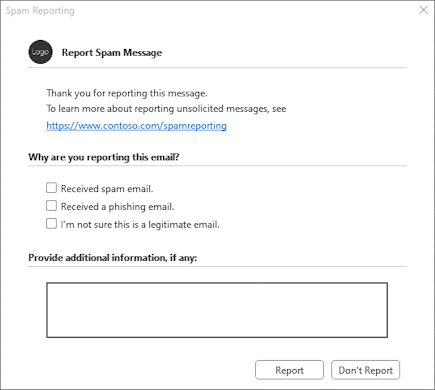
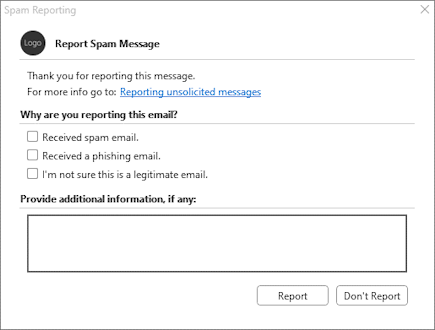
Update screenshots

diff --git a/docs/outlook/spam-reporting.md b/docs/outlook/spam-reporting.md
@@ -1,7 +1,7 @@
 ---
 title: Implement an integrated spam-reporting add-in (preview)
 description: Learn how to implement an integrated spam-reporting add-in in Outlook.
-ms.date: 04/09/2024
+ms.date: 04/11/2024
 ms.topic: how-to
 ms.localizationpriority: medium
 ---
@@ -57,7 +57,7 @@ To implement the integrated spam-reporting feature in your add-in, you must conf
   - The preprocessing dialog is shown to a user when they select the add-in button. It's configured through the [PreProcessingDialog](/javascript/api/manifest/preprocessingdialog?view=outlook-js-preview&preserve-view=true) element of your manifest. While the dialog must have a title and description, you can optionally include the following elements.
     - A multiple-selection list of choices to help a user identify the type of message they're reporting. To learn how to configure these reporting options, see [ReportingOptions element](/javascript/api/manifest/reportingoptions?view=outlook-js-preview&preserve-view=true).
     - A text box for the user to provide additional information about the message they're reporting. To learn how to implement a text box, see [FreeTextLabel element](/javascript/api/manifest/preprocessingdialog?view=outlook-js-preview&preserve-view=true#child-elements).
-    - Custom text and URL to provide informational resources to the user. To learn how to personalize these elements, see [MoreInfo element](/javascript/api/manifest/moreinfo?view=outlook-js-preview&preserve-view=true).
+    - A link with custom text and URL to provide informational resources to the user. To learn how to personalize these elements, see [MoreInfo element](/javascript/api/manifest/moreinfo?view=outlook-js-preview&preserve-view=true).
 
     When a user selects **Report** from the dialog, the [SpamReporting](/javascript/api/office/office.eventtype?view=outlook-js-preview&preserve-view=true) event is activated and is then handled by the JavaScript event handler.
 
